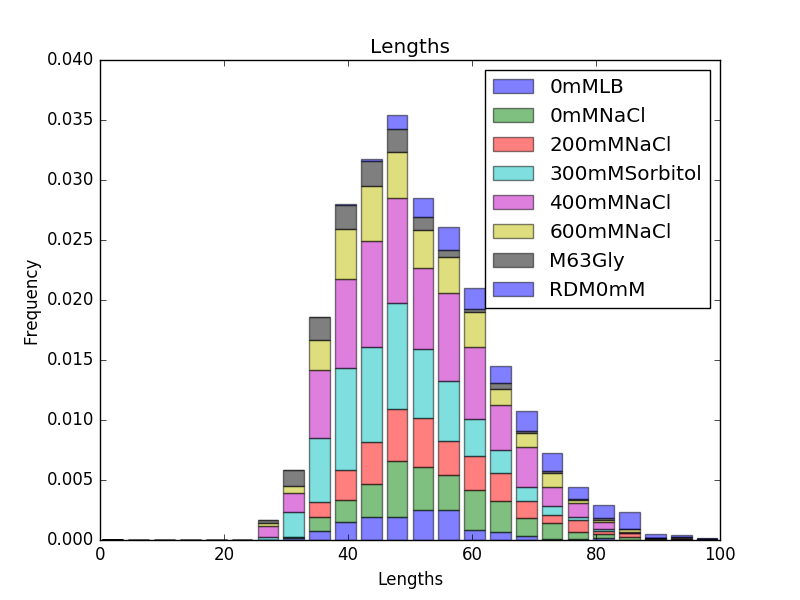
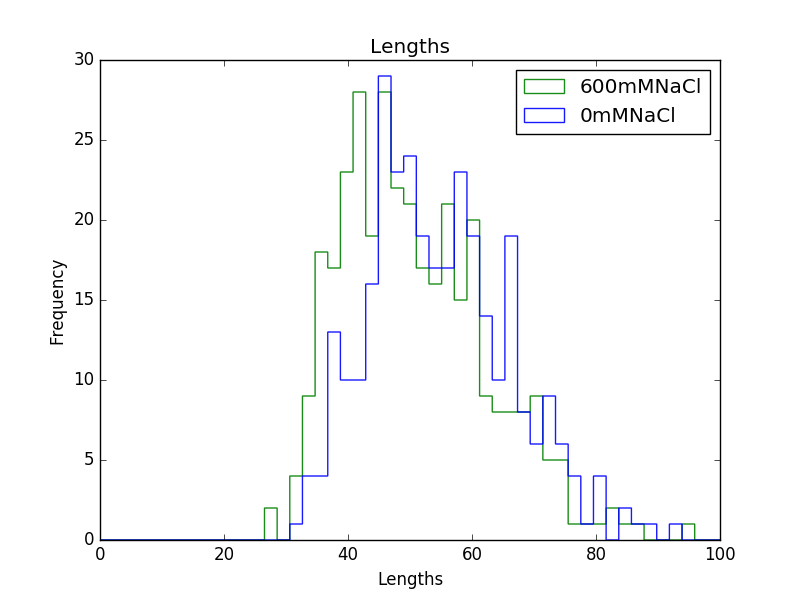
Added volume calculations

diff --git a/Analyser.py b/Analyser.py
@@ -25,12 +25,12 @@ print("Conditions={}".format(conditions))
 array = [[] for i in range(len(conditions))]
 #Conditions grouped together
 dataDic = {"Names":copy.deepcopy(array),"Areas":copy.deepcopy(array),
-        "Widths":copy.deepcopy(array),"Lengths":copy.deepcopy(array)}
+        "Widths":copy.deepcopy(array),"Lengths":copy.deepcopy(array),"Volumes":copy.deepcopy(array)}
 
 array = [[] for i in range(numberOfFiles)]
 #Each slide individually
 dataDic2 = {"Names":copy.deepcopy(array),"Areas":copy.deepcopy(array),
-        "Widths":copy.deepcopy(array),"Lengths":copy.deepcopy(array)}
+        "Widths":copy.deepcopy(array),"Lengths":copy.deepcopy(array),"Volumes":copy.deepcopy(array)}
 
 
 
@@ -48,14 +48,18 @@ for n,fName in enumerate(fileNamesPlusPath):
                 area = IT.GetArea(mask)
                 if area > areaCutOff:
                     length,width = IT.GetLengthAndWidth(mask)
+                    volume = ((4/3.0)*np.pi*(width/2.0)**3) + (width*(length-width))
                     condition = getCondition(fileNames[n])
                     index = conditions.index(condition)
                     dataDic["Areas"][index].append(area)
                     dataDic["Lengths"][index].append(length)
                     dataDic["Widths"][index].append(width)
+                    dataDic["Volumes"][index].append(volume)
+
                     dataDic2["Areas"][n].append(area)
                     dataDic2["Lengths"][n].append(length)
                     dataDic2["Widths"][n].append(width)
+                    dataDic2["Volumes"][n].append(volume)
         except EOFError:
             print("End of File")
             endOfFile = True
@@ -66,15 +70,15 @@ for n,fName in enumerate(fileNamesPlusPath):
 
 #****************************************** PLOTTING ***************************
 
-
 plt.ioff()
 plt.clf()
 #Plot Histograms
-Props = ["Areas","Lengths","Widths"]
-histBins = [np.linspace(0,2000,25),np.linspace(0,100,25),np.linspace(0,25,25)]
+Props = ["Areas","Lengths","Widths","Volumes"]
+histBins = [np.linspace(0,2000,50),np.linspace(0,100,50),np.linspace(0,25,50),np.linspace(0,4000,50)]
 histArray = []
 for z,prop in enumerate(Props):
-    plt.hist(dataDic[prop],bins=histBins[z],stacked=True,label=conditions,alpha=0.5,normed=1)
+    print(len(dataDic[prop]))
+    plt.hist([dataDic[prop][1],dataDic[prop][5]],histtype= "step",bins=histBins[z],stacked=False,label=[conditions[1],conditions[5]],alpha=0.9,normed=False)
     plt.legend()
     plt.title(prop)
     plt.xlabel(prop)
